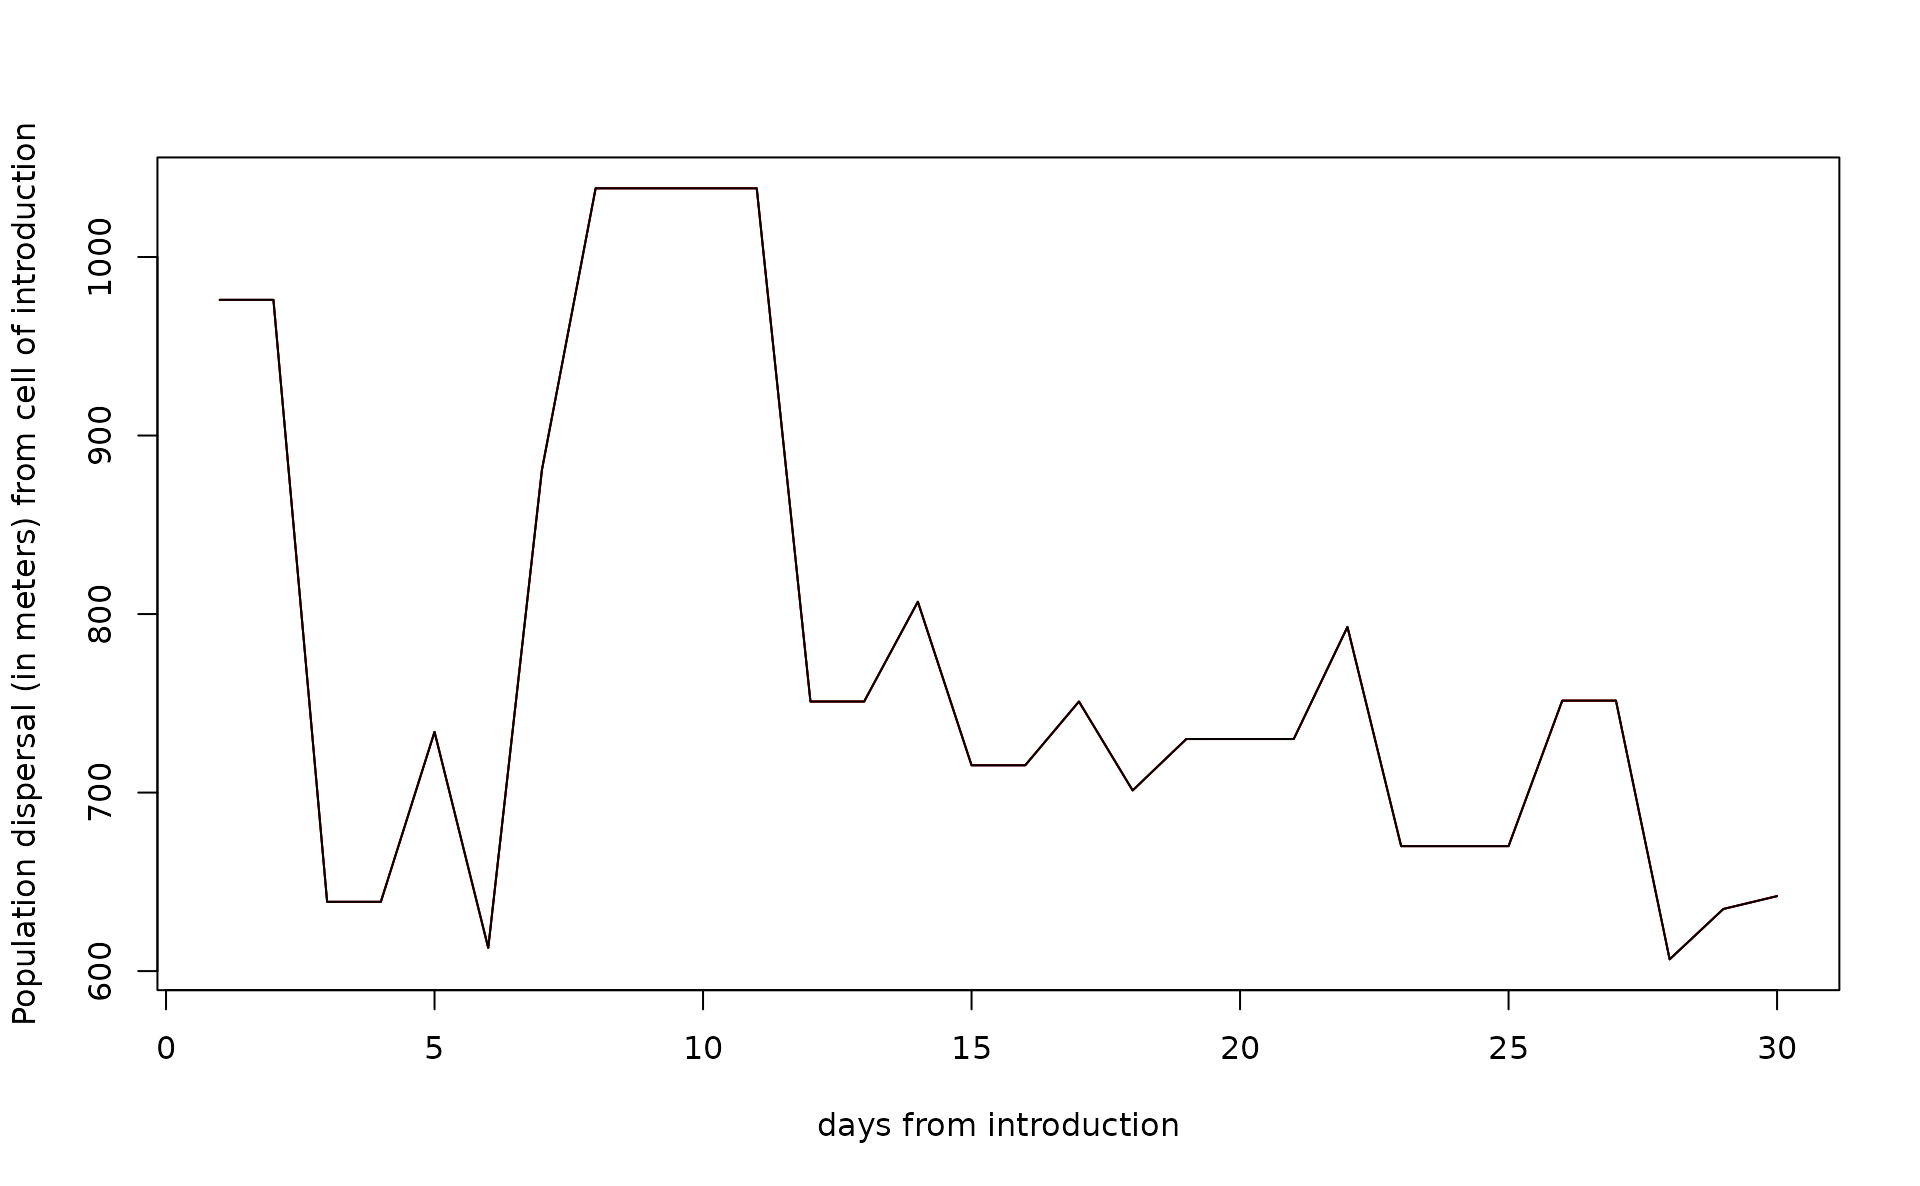
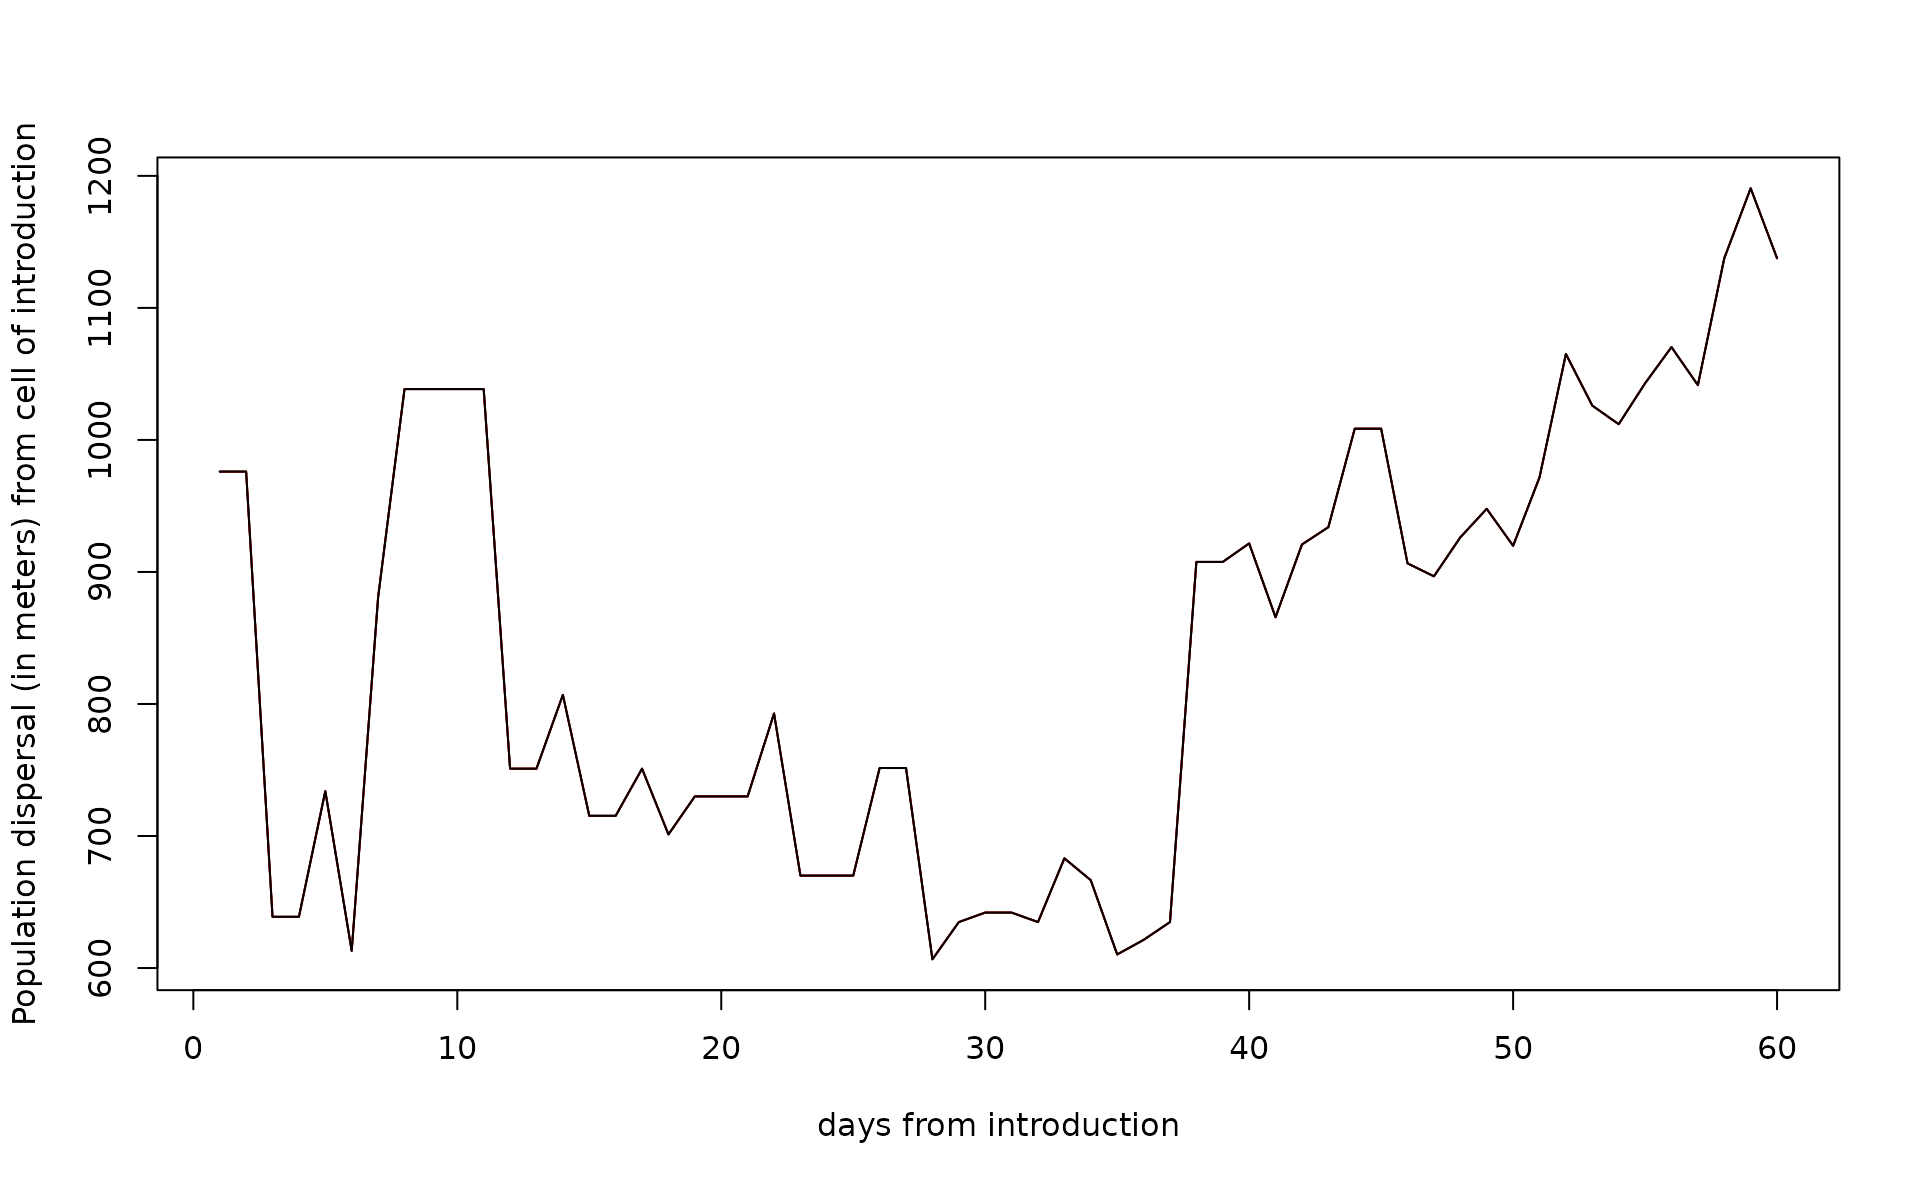
Deploying to gh-pages from @ mattmar/dynamAedes@40e291c2fa163833b4e7dd94d619c6026809619f 🚀

diff --git a/articles/dynamAedes_local.html b/articles/dynamAedes_local.html
@@ -359,7 +359,7 @@
 <span><span class="co"># 1           Day 60         1 Population</span></span></code></pre>
 <p>We can also get a spatial output, using the function <em>psi_sp</em>, which require as additional input only the matrix of centroid coordinates of pixels.</p>
 <div class="sourceCode" id="cb37"><pre class="downlit sourceCode r">
-<code class="sourceCode R"><span><span class="fu"><a href="https://rdrr.io/r/base/plot.html" class="external-link">plot</a></span><span class="op">(</span><span class="fu"><a href="../reference/psi_sp.html">psi_sp</a></span><span class="op">(</span>coords <span class="op">=</span> <span class="va">cc</span>, input_sim <span class="op">=</span> <span class="va">simout</span>, eval_date <span class="op">=</span> <span class="fl">30</span>, n.clusters<span class="op">=</span><span class="va">cl</span><span class="op">)</span><span class="op">)</span></span>
+<code class="sourceCode R"><span><span class="fu"><a href="https://rdrr.io/r/base/plot.html" class="external-link">plot</a></span><span class="op">(</span><span class="fu"><a href="../reference/psi_sp.html">psi_sp</a></span><span class="op">(</span>coords <span class="op">=</span> <span class="va">cc</span>, input_sim <span class="op">=</span> <span class="va">simout</span>, eval_date <span class="op">=</span> <span class="fl">60</span>, n.clusters<span class="op">=</span><span class="va">cl</span><span class="op">)</span><span class="op">)</span></span>
 <span><span class="fu">raster</span><span class="fu">::</span><span class="fu"><a href="https://rdrr.io/r/base/plot.html" class="external-link">plot</a></span><span class="op">(</span><span class="va">buff</span>, add<span class="op">=</span><span class="cn">T</span><span class="op">)</span></span>
 <span><span class="fu">raster</span><span class="fu">::</span><span class="fu"><a href="https://rdrr.io/r/base/plot.html" class="external-link">plot</a></span><span class="op">(</span><span class="va">df_sp</span>, add<span class="op">=</span><span class="cn">T</span>, col<span class="op">=</span><span class="st">"red"</span><span class="op">)</span></span>
 <span><span class="fu">raster</span><span class="fu">::</span><span class="fu"><a href="https://rdrr.io/r/base/plot.html" class="external-link">plot</a></span><span class="op">(</span><span class="fu"><a href="https://rdrr.io/pkg/sp/man/SpatialPoints.html" class="external-link">SpatialPoints</a></span><span class="op">(</span><span class="va">icellcoords</span><span class="op">)</span>, add<span class="op">=</span><span class="cn">T</span>, col<span class="op">=</span><span class="st">"blue"</span>, pch<span class="op">=</span><span class="fl">21</span><span class="op">)</span></span></code></pre></div>
@@ -408,7 +408,7 @@
 <p><img src="dynamAedes_local_files/figure-html/unnamed-chunk-25-1.png" width="95%" style="display: block; margin: auto;"></p>
 <p>We can also have a spatial output of quantiles of the abundance distribution of a given life stage and for a given simulated day by using the function <em>adci_sp</em> and specifiying pixel coordinates. For example for eggs:</p>
 <div class="sourceCode" id="cb39"><pre class="downlit sourceCode r">
-<code class="sourceCode R"><span><span class="va">r</span><span class="op">=</span><span class="fu"><a href="../reference/adci_sp.html">adci_sp</a></span><span class="op">(</span><span class="va">simout</span>, coords<span class="op">=</span><span class="va">cc</span>, eval_date<span class="op">=</span><span class="fl">30</span>, breaks<span class="op">=</span><span class="fu"><a href="https://rdrr.io/r/base/c.html" class="external-link">c</a></span><span class="op">(</span><span class="fl">0.025</span>,<span class="fl">0.975</span><span class="op">)</span>, stage<span class="op">=</span><span class="fl">3</span><span class="op">)</span></span>
+<code class="sourceCode R"><span><span class="va">r</span><span class="op">=</span><span class="fu"><a href="../reference/adci_sp.html">adci_sp</a></span><span class="op">(</span><span class="va">simout</span>, coords<span class="op">=</span><span class="va">cc</span>, eval_date<span class="op">=</span><span class="fl">60</span>, breaks<span class="op">=</span><span class="fu"><a href="https://rdrr.io/r/base/c.html" class="external-link">c</a></span><span class="op">(</span><span class="fl">0.025</span>,<span class="fl">0.975</span><span class="op">)</span>, stage<span class="op">=</span><span class="fl">3</span><span class="op">)</span></span>
 <span><span class="fu"><a href="https://rdrr.io/r/base/plot.html" class="external-link">plot</a></span><span class="op">(</span><span class="va">r</span><span class="op">)</span></span></code></pre></div>
 <p><img src="dynamAedes_local_files/figure-html/unnamed-chunk-26-1.png" width="95%" style="display: block; margin: auto;"> Note that if only a small number of mosquitoes are present in a pixel over many iterations, quantiles may be 0 (especially for low quantiles) and you may see a series of empty rasters!</p>
 </div>
@@ -417,7 +417,7 @@
 </h4>
 <p>Compute a summary of the number of invaded cells over model iterations</p>
 <div class="sourceCode" id="cb40"><pre class="downlit sourceCode r">
-<code class="sourceCode R"><span><span class="va">x</span><span class="op">=</span><span class="fu"><a href="../reference/icci.html">icci</a></span><span class="op">(</span><span class="va">simout</span>, eval_date<span class="op">=</span><span class="fl">1</span><span class="op">:</span><span class="fl">30</span>, breaks<span class="op">=</span><span class="fu"><a href="https://rdrr.io/r/base/c.html" class="external-link">c</a></span><span class="op">(</span><span class="fl">0.25</span>,<span class="fl">0.50</span>,<span class="fl">0.75</span><span class="op">)</span><span class="op">)</span></span>
+<code class="sourceCode R"><span><span class="va">x</span><span class="op">=</span><span class="fu"><a href="../reference/icci.html">icci</a></span><span class="op">(</span><span class="va">simout</span>, eval_date<span class="op">=</span><span class="fl">1</span><span class="op">:</span><span class="fl">60</span>, breaks<span class="op">=</span><span class="fu"><a href="https://rdrr.io/r/base/c.html" class="external-link">c</a></span><span class="op">(</span><span class="fl">0.25</span>,<span class="fl">0.50</span>,<span class="fl">0.75</span><span class="op">)</span><span class="op">)</span></span>
 <span><span class="fu"><a href="https://rdrr.io/r/utils/head.html" class="external-link">head</a></span><span class="op">(</span><span class="va">x</span><span class="op">)</span></span></code></pre></div>
 <pre><code><span><span class="co">#    25% 50% 75% day</span></span>
 <span><span class="co"># V1   2   2   2   1</span></span>
@@ -429,19 +429,19 @@
 <div class="sourceCode" id="cb42"><pre class="downlit sourceCode r">
 <code class="sourceCode R"><span><span class="fu"><a href="https://rdrr.io/r/utils/head.html" class="external-link">tail</a></span><span class="op">(</span><span class="va">x</span><span class="op">)</span></span></code></pre></div>
 <pre><code><span><span class="co">#     25% 50% 75% day</span></span>
-<span><span class="co"># V25   8   8   8  25</span></span>
-<span><span class="co"># V26  10  10  10  26</span></span>
-<span><span class="co"># V27  10  10  10  27</span></span>
-<span><span class="co"># V28  10  10  10  28</span></span>
-<span><span class="co"># V29   9   9   9  29</span></span>
-<span><span class="co"># V30  10  10  10  30</span></span></code></pre>
+<span><span class="co"># V55  19  19  19  55</span></span>
+<span><span class="co"># V56  18  18  18  56</span></span>
+<span><span class="co"># V57  19  19  19  57</span></span>
+<span><span class="co"># V58  21  21  21  58</span></span>
+<span><span class="co"># V59  22  22  22  59</span></span>
+<span><span class="co"># V60  21  21  21  60</span></span></code></pre>
 </div>
 <div class="section level4">
 <h4 id="estimates-of-mosquito-dispersal-spread-in-km2">Estimates of mosquito dispersal spread (in km2 )<a class="anchor" aria-label="anchor" href="#estimates-of-mosquito-dispersal-spread-in-km2"></a>
 </h4>
 <p>Derive estimates of mosquito dispersal (in km^2) of the simulated mosquito populations (only when scale = “lc”) for any simulated day (in this case for 50 days from start and end of the simulate period).</p>
 <div class="sourceCode" id="cb44"><pre class="downlit sourceCode r">
-<code class="sourceCode R"><span><span class="va">x</span><span class="op">=</span><span class="fu"><a href="../reference/dici.html">dici</a></span><span class="op">(</span><span class="va">simout</span>, coords<span class="op">=</span><span class="va">cc</span>, eval_date<span class="op">=</span><span class="fu"><a href="https://rdrr.io/r/base/seq.html" class="external-link">seq</a></span><span class="op">(</span><span class="fl">1</span>,<span class="fl">30</span>,length.out<span class="op">=</span><span class="fl">30</span><span class="op">)</span>, breaks<span class="op">=</span><span class="fu"><a href="https://rdrr.io/r/base/c.html" class="external-link">c</a></span><span class="op">(</span><span class="fl">0.25</span>,<span class="fl">0.50</span>,<span class="fl">0.75</span><span class="op">)</span>, space<span class="op">=</span><span class="cn">FALSE</span><span class="op">)</span></span>
+<code class="sourceCode R"><span><span class="va">x</span><span class="op">=</span><span class="fu"><a href="../reference/dici.html">dici</a></span><span class="op">(</span><span class="va">simout</span>, coords<span class="op">=</span><span class="va">cc</span>, eval_date<span class="op">=</span><span class="fu"><a href="https://rdrr.io/r/base/seq.html" class="external-link">seq</a></span><span class="op">(</span><span class="fl">1</span>,<span class="fl">60</span>,length.out<span class="op">=</span><span class="fl">60</span><span class="op">)</span>, breaks<span class="op">=</span><span class="fu"><a href="https://rdrr.io/r/base/c.html" class="external-link">c</a></span><span class="op">(</span><span class="fl">0.25</span>,<span class="fl">0.50</span>,<span class="fl">0.75</span><span class="op">)</span>, space<span class="op">=</span><span class="cn">FALSE</span><span class="op">)</span></span>
 <span><span class="fu"><a href="https://rdrr.io/r/base/plot.html" class="external-link">plot</a></span><span class="op">(</span><span class="va">`75%`</span><span class="op">~</span><span class="va">day</span>,<span class="va">x</span>,type<span class="op">=</span><span class="st">"l"</span>,ylab<span class="op">=</span><span class="st">"Population dispersal (in meters) from cell of introduction"</span>,xlab<span class="op">=</span><span class="st">"days from introduction"</span><span class="op">)</span></span>
 <span><span class="fu"><a href="https://rdrr.io/r/graphics/lines.html" class="external-link">lines</a></span><span class="op">(</span><span class="va">`50%`</span><span class="op">~</span><span class="va">day</span>,<span class="va">x</span>,type<span class="op">=</span><span class="st">"l"</span>, col<span class="op">=</span><span class="st">"red"</span><span class="op">)</span></span>
 <span><span class="fu"><a href="https://rdrr.io/r/graphics/lines.html" class="external-link">lines</a></span><span class="op">(</span><span class="va">`25%`</span><span class="op">~</span><span class="va">day</span>,<span class="va">x</span>,type<span class="op">=</span><span class="st">"l"</span><span class="op">)</span></span></code></pre></div>
